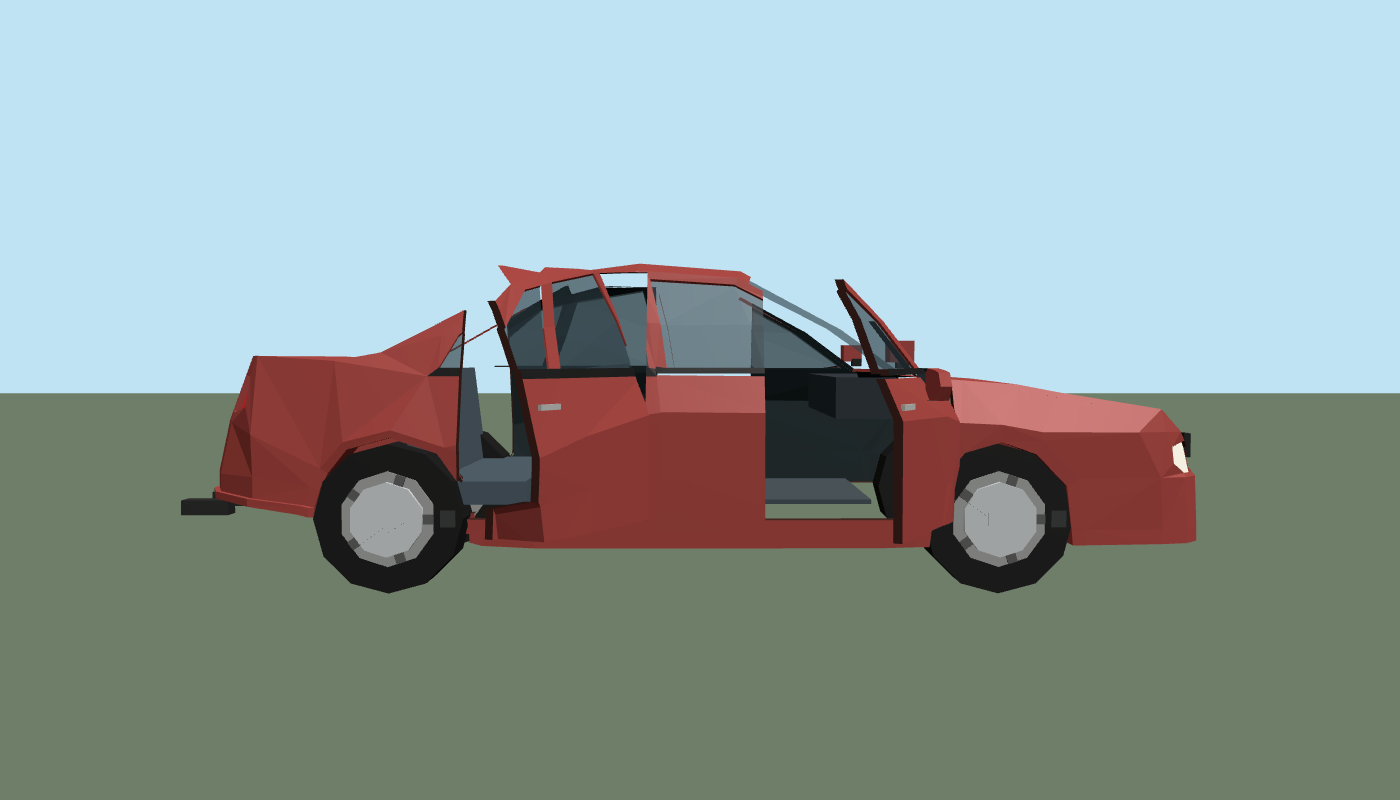
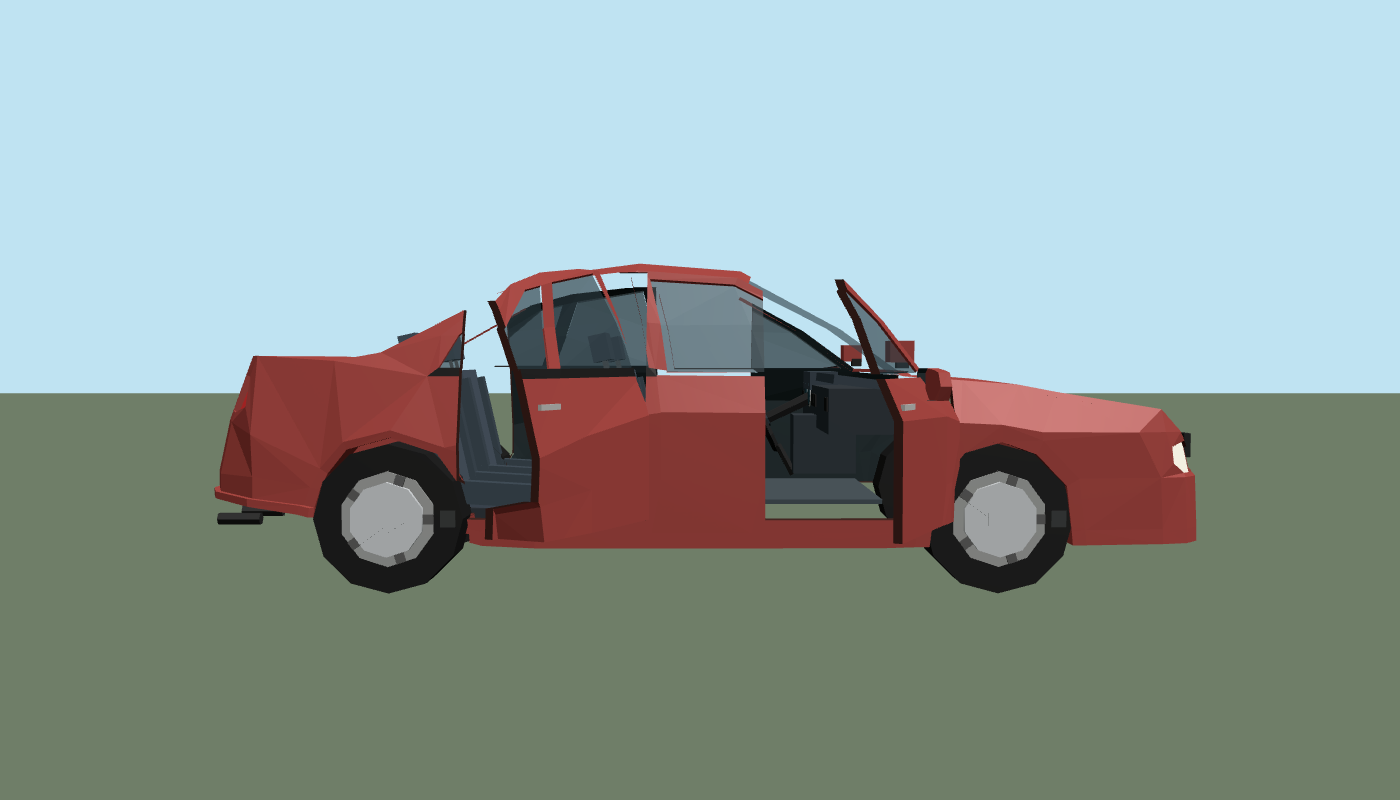
Losse eilanden weg langs de deuropening, uitlaat onder de bumper, autostoelen en dashboard uit het register
- hybride: kleine losse eilanden (onder 150 cm2) bij een deurcontour gaan eruit, in romp en deurblad
- knipDeurgaten: geen platte reepjes aan het deurblad (trekker-limo)
- deursnipper_test: controleert elk los eiland langs de opening, binnen en buiten de flank
- uitlaat van de hybride klein en half in de onderkant van de achterbumper; geen dubbele spiegel meer
- autostoel en dashboard met stuur als props in het centrale register, gebruikt door beide interieurs
- hybride norm 7.500 driehoeken (interieur alleen op LOD 0); contactblad -nabij, verslag, changelog

diff --git a/game/js/models3d_vehicles.js b/game/js/models3d_vehicles.js
@@ -13,6 +13,7 @@ import { hash2, hash3 } from './rng.js';
 import { zoneTotals, losseOnderdelen, fietsStaat } from './vehicledamage.js';
 import { staatSleutel } from './studentenfiets.js';
 import { naadStroken } from './vehicledoorcuts.js';
+import { propGeometry } from './propmodels3d.js';
 import { DEUR_DEFS as DEUR_DEFS_REF } from './vehicledoors.js';
 import { QCARS } from './models/qcars.js';
 import { hybrideSchaal } from './propregister.js';
@@ -672,6 +673,25 @@ function assembleCar(type, L, W, paint, { police = false, ambulance = false, wre
   return group;
 }
 
+// Het eenvoudige interieur achter een echte deuropening, uit het register (propregister.js: autostoel en dashboard): een vloer, twee
+// voorstoelen, twee achterstoelen en het dashboard met stuur aan de kant van de bestuurder (-z), op de maten van de romp.
+function addPropGeo(B, geo, m) {
+  const p = geo.attributes.position, c = geo.attributes.color, v = new THREE.Vector3();
+  for (let i = 0; i + 2 < p.count; i += 3) {
+    const pts = [0, 1, 2].map((k) => { v.fromBufferAttribute(p, i + k).applyMatrix4(m); return [v.x, v.y, v.z]; });
+    B._push(0, pts[0], pts[1], pts[2], [c.getX(i), c.getY(i), c.getZ(i)], null);
+  }
+}
+function addInterieur(B, { xA, xD, belt, vloerY, vloerW, stoelY, sx, zs, dashW }) {
+  B.box((xA + xD) / 2, vloerY, 0, xA - xD - 0.2, 0.02, vloerW, 0x45474c);
+  const stoel = propGeometry('autostoel'), dash = propGeometry('dashboard');
+  for (const z of [-zs, zs]) {
+    addPropGeo(B, stoel, composeMatrix(sx, stoelY, z));
+    addPropGeo(B, stoel, composeMatrix(sx - 0.85, stoelY, z * 0.92));
+  }
+  addPropGeo(B, dash, composeMatrix(xA - 0.2, belt - 0.5, 0, 0, 0, 0, 1, 1, Math.min(1, dashW / 1.42)));
+}
+
 // De echte deuropeningen (eis eigenaar 23-11): de dichte deuren als één statische mesh in het gat (buitenkant in lak, binnenkant
 // bekleding) zolang er geen deur-rig is, en een eenvoudig interieur (vloer, stoelen, dashboard) dat je door de open deur ziet zolang
 // de echte cabine (cabin3d.js) er niet is. Beide gedeelde geometrie per model.
@@ -708,18 +728,9 @@ function addRealDoors(group, body, gaten, doorName, L, W, paint, P, type) {
   group.userData.echtGat = ids;
   group.userData.gatRects = Object.fromEntries(gaten.flatMap((g) => g.ids.map((id) => [id, g.rect])));
   if (P) {
-    const ig = cached(`interieurSimpel|${type}|${L}|${W}`, () => {
+    const ig = cached(`interieurSimpel2|${type}|${L}|${W}`, () => {
       const B = new GeoBuilder(1);
-      const SEAT = 0x4d515c, DONKER = 0x2b2d32;
-      B.box((P.xA + P.xD) / 2, 0.335, 0, P.xA - P.xD, 0.02, W - 0.2, 0x45474c);                           // vloer
-      const sx = -hl * 0.06;
-      for (const z of [-1, 1]) {
-        B.box(sx, 0.39, z * hw * 0.34, 0.48, 0.1, 0.46, SEAT);                                            // zitting voor
-        B.box(sx - 0.27, 0.68, z * hw * 0.34, 0.1, 0.56, 0.46, SEAT, 0, 0, 0, 0.12);                      // leuning voor
-      }
-      B.box(sx - 0.85, 0.39, 0, 0.46, 0.1, W - 0.36, SEAT);                                               // achterbank
-      B.box(sx - 1.1, 0.68, 0, 0.1, 0.52, W - 0.36, SEAT, 0, 0, 0, 0.12);
-      B.box(P.xA - 0.2, P.belt - 0.06, 0, 0.34, 0.24, W - 0.3, DONKER);                                   // dashboard
+      addInterieur(B, { xA: P.xA, xD: P.xD, belt: P.belt, vloerY: 0.335, vloerW: W - 0.2, stoelY: 0.2, sx: -hl * 0.06, zs: hw * 0.36, dashW: W - 0.3 });
       return B.build();
     });
     const im = new THREE.Mesh(ig, cabinFallbackMaterial());
@@ -805,6 +816,9 @@ function looseCarParts(type, L, W, paint, P, mats, group) {
   };
   make('grille', (B) => B.box(hl + 0.005, P.nose - 0.12, 0, 0.03, 0.11, W * 0.42, TRIM));
   make('spiegels', (B) => {
+    // een hybride romp heeft zijn eigen spiegels (aan de voordeur, ze gaan met de deur mee): geen tweede blok ernaast, alleen een
+    // onzichtbaar stipje binnen de flank zodat de schade (fx3d.js) een plek heeft om de scherven van te laten vallen
+    if (P.uitlaat) { for (const s of [1, -1]) B.box(P.xA - 0.08, P.belt, s * (hw - 0.12), 0.01, 0.01, 0.01, TRIM); return; }
     const mx = P.van ? P.xA - 0.12 : P.xA - 0.08;
     for (const s of [1, -1]) {
       B.box(mx, P.belt + 0.1, s * (hw + 0.08), 0.1, 0.09, 0.14, paint);
@@ -812,6 +826,12 @@ function looseCarParts(type, L, W, paint, P, mats, group) {
     }
   });
   make('uitlaat', (B) => {
+    // een hybride romp heeft een ronde kont: de uitlaat zit eronder, vast aan de onderkant, en steekt maar een paar cm uit
+    if (P.uitlaat) {
+      const u = P.uitlaat; // half in de onderkant van de bumper, de punt 2 cm voorbij de achterkant
+      for (const s of [0.5, -0.5]) B.geo(new THREE.CylinderGeometry(0.024, 0.024, 0.14, 8).rotateZ(Math.PI / 2), composeMatrix(u.x - 0.02 + 0.07, u.y + 0.008, s * hw * 0.42), 0x2a2a2c);
+      return;
+    }
     for (const s of P.van ? [0.45] : [0.5, -0.5]) B.box(-hl - 0.08, 0.3, s * hw * 0.5, 0.22, 0.07, 0.09, 0x2a2a2c);
   });
   return parts;
@@ -1022,7 +1042,8 @@ function hybridBody(key, L, W, paint, doorName, police) {
       }
       return uit;
     };
-    const fan = (poly, r) => { const o = []; for (let i = 1; i + 1 < poly.length; i++) o.push({ v: [poly[0], poly[i], poly[i + 1]], r }); return o; };
+    const platOpp = (a, b, c) => { const u = [b[0] - a[0], b[1] - a[1], b[2] - a[2]], w = [c[0] - a[0], c[1] - a[1], c[2] - a[2]]; return Math.hypot(u[1] * w[2] - u[2] * w[1], u[2] * w[0] - u[0] * w[2], u[0] * w[1] - u[1] * w[0]); };
+    const fan = (poly, r) => { const o = []; for (let i = 1; i + 1 < poly.length; i++) if (platOpp(poly[0], poly[i], poly[i + 1]) > 1e-8) o.push({ v: [poly[0], poly[i], poly[i + 1]], r }); return o; };
     const kleiner = (x, c) => x <= c, groter = (x, c) => x >= c;
     // de flank wordt langs de deurcontour geknipt (Sutherland-Hodgman in x en y, z volgt lineair): alleen de vlakken die opzij kijken
     // (de deur en zijn ruit, ook de ronde dorpel en schouder, niet het dak of de voorruit). Het deurblad krijgt de contour 4 mm naar binnen (de kier), de romp houdt
@@ -1069,6 +1090,27 @@ function hybridBody(key, L, W, paint, doorName, police) {
         randVan(poly, r, true, RAND_GAT, d.side, 'romp');
       }
     }
+    // losse eilandjes langs de opening (een stukje raamlijst, een dunne lat van hun binnenrand) zweven anders als scherf in de open
+    // opening of hangen als lat aan het deurblad: kleine eilanden (onder 150 cm2) binnen 10 cm van een deurcontour gaan eruit
+    const KLEIN_EILAND = 0.015;
+    const eilanden = (lijst) => {
+      const key = (p) => `${Math.round(p[0] * 1000)},${Math.round(p[1] * 1000)},${Math.round(p[2] * 1000)}`;
+      const ouder = lijst.map((_, i) => i), vind = (a) => (ouder[a] === a ? a : (ouder[a] = vind(ouder[a])));
+      const eerste = new Map();
+      lijst.forEach((t, i) => { for (const p of t.v) { const k = key(p); if (eerste.has(k)) ouder[vind(i)] = vind(eerste.get(k)); else eerste.set(k, i); } });
+      const groep = new Map();
+      lijst.forEach((t, i) => { const r = vind(i); if (!groep.has(r)) groep.set(r, []); groep.get(r).push(t); });
+      return [...groep.values()];
+    };
+    const opp = (t) => { const [a, b, c] = t.v, u = [b[0] - a[0], b[1] - a[1], b[2] - a[2]], w = [c[0] - a[0], c[1] - a[1], c[2] - a[2]]; return Math.hypot(u[1] * w[2] - u[2] * w[1], u[2] * w[0] - u[0] * w[2], u[0] * w[1] - u[1] * w[0]) / 2; };
+    const bijContour = (lijst) => Object.values(rects).some((r) => lijst.some((t) => t.v.some((p) => p[0] > r[0] - 0.1 && p[0] < r[2] + 0.1 && p[1] > r[1] - 0.1 && p[1] < r[3] + 0.1)));
+    const opgeruimd = (lijst, alleenBijContour) => eilanden(lijst).filter((e) => e.reduce((a, t) => a + opp(t), 0) >= KLEIN_EILAND || (alleenBijContour && !bijContour(e))).flat();
+    for (const id of Object.keys(vlak)) vlak[id] = opgeruimd(vlak[id], false);
+    rest.splice(0, rest.length, ...opgeruimd(rest, true));
+    // de randen horen bij wat er overblijft: een rand van een opgeruimd eilandje gaat mee weg
+    const over = new Set([...rest, ...Object.values(vlak).flat()].flatMap((t) => t.v.map((p) => `${Math.round(p[0] * 1000)},${Math.round(p[1] * 1000)},${Math.round(p[2] * 1000)}`)));
+    const randOver = (rd) => [rd[0], rd[1]].every((p) => over.has(`${Math.round(p[0] * 1000)},${Math.round(p[1] * 1000)},${Math.round(p[2] * 1000)}`));
+    randen.splice(0, randen.length, ...randen.filter(randOver));
     const f0 = vcount();
     for (const t of rest) if (isVoor(t)) B.tri(t.v[0], t.v[1], t.v[2], kleur[t.r], groep[t.r]);
     const f1 = vcount();
@@ -1175,19 +1217,11 @@ function buildHybridCar(v, key, paint) {
   // de breedte van elk interieurdeel volgt de flank op die plek (de romp loopt in naar voren, achteren en boven): niets steekt erdoor
   const flankTris = hybridTris(key, L, W).filter((t) => t.r === 0).map((t) => t.v);
   const binnen = (x, y, marge = 0.1) => { const z = hybridSurface(flankTris, x, y, 1); return Math.max(0.3, 2 * ((z === null ? W / 2 : z) - marge)); };
-  const ig = cached(`hybInterieur2|${key}|${L}|${W}`, () => {
+  const ig = cached(`hybInterieur3|${key}|${L}|${W}`, () => {
     const B = new GeoBuilder(1);
-    const SEAT = 0x4d515c, sx = -L / 2 * 0.06;
-    const vx = (fit.xA + fit.xD) / 2;
-    B.box(vx, 0.36, 0, fit.xA - fit.xD - 0.3, 0.02, Math.min(binnen(fit.xA - 0.3, 0.45), binnen(fit.xD + 0.3, 0.45)), 0x45474c);
-    const zs = binnen(sx, 0.5) / 2 * 0.62;
-    for (const z of [-1, 1]) {
-      B.box(sx, 0.42, z * zs, 0.48, 0.1, 0.44, SEAT);
-      B.box(sx - 0.27, 0.7, z * zs, 0.1, 0.54, 0.44, SEAT, 0, 0, 0, 0.12);
-    }
-    B.box(sx - 0.85, 0.42, 0, 0.46, 0.1, binnen(sx - 0.85, 0.5, 0.12), SEAT);
-    B.box(sx - 1.1, 0.7, 0, 0.1, 0.5, binnen(sx - 1.1, 0.8, 0.12), SEAT, 0, 0, 0, 0.12);
-    B.box(fit.xA - 0.2, fit.belt - 0.1, 0, 0.26, 0.18, binnen(fit.xA - 0.2, fit.belt - 0.1, 0.12), 0x2b2d32);
+    const sx = -L / 2 * 0.06;
+    addInterieur(B, { xA: fit.xA, xD: fit.xD, belt: fit.belt, vloerY: 0.36, vloerW: Math.min(binnen(fit.xA - 0.3, 0.45), binnen(fit.xD + 0.3, 0.45)),
+      stoelY: 0.24, sx, zs: Math.min(binnen(sx, 0.6) / 2 - 0.26, 0.42), dashW: binnen(fit.xA - 0.2, fit.belt - 0.1, 0.12) });
     return B.build();
   });
   const im = new THREE.Mesh(ig, cabinFallbackMaterial());
@@ -1197,7 +1231,11 @@ function buildHybridCar(v, key, paint) {
   // losse delen bij schade: grille, spiegels, uitlaat (zoals onze bouwer), op de maten van deze romp
   const lakTris = hybridTris(key, L, W).filter((t) => t.r === 0).map((t) => t.v);
   const zSp = hybridSurface(lakTris, fit.xA - 0.08, fit.belt - 0.02, 1);
-  const P = { ...fit, van: false };
+  // de uitlaat hangt onder de achterbumper: de onderkant van hun kont (laagste punt in de laatste 35 cm) en hoe ver die naar achteren reikt
+  const kont = hybridTris(key, L, W).flatMap((t) => t.v).filter((p) => p[0] < -L / 2 + 0.35 && Math.abs(p[2]) < 0.6);
+  const kontY = kont.length ? Math.min(...kont.map((p) => p[1])) : 0.3;
+  const kontX = kont.length ? Math.min(...kont.filter((p) => p[1] < kontY + 0.06).map((p) => p[0])) : -L / 2;
+  const P = { ...fit, van: false, uitlaat: { x: kontX, y: kontY } };
   group.userData.loose = looseCarParts('hyb-' + key, L, zSp ? zSp * 2 : W, color, P, mats, group);
   // wielen: onze wielgeometrie op hun plekken
   const { sx, sy, sz } = hybridScale(auto, L, W, key);
@@ -1257,7 +1295,9 @@ function knipDeurgaten(B, doorName, L, W) {
     }
     return uit;
   };
-  const fan = (poly) => { const o = []; for (let i = 1; i + 1 < poly.length; i++) o.push([poly[0], poly[i], poly[i + 1]]); return o; };
+  // een waaier uit een geknipte veelhoek, zonder platte driehoeken (drie punten op een lijn langs de snede)
+  const vlakOpp = (a, b, c) => { const u = [b[0] - a[0], b[1] - a[1], b[2] - a[2]], w = [c[0] - a[0], c[1] - a[1], c[2] - a[2]]; return Math.hypot(u[1] * w[2] - u[2] * w[1], u[2] * w[0] - u[0] * w[2], u[0] * w[1] - u[1] * w[0]); };
+  const fan = (poly) => { const o = []; for (let i = 1; i + 1 < poly.length; i++) if (vlakOpp(poly[0], poly[i], poly[i + 1]) > 1e-8) o.push([poly[0], poly[i], poly[i + 1]]); return o; };
   const kl = (x, c) => x <= c, gr = (x, c) => x >= c;
   for (const gi of [G_BODY, G_GLASS]) {
     const G = B.groups[gi], p = G.p.slice(), c = G.c.slice();
@@ -1278,7 +1318,7 @@ function knipDeurgaten(B, doorName, L, W) {
       const [x0, y0, x1, y1] = rects[d.id];
       const inn = knip(knip(knip(knip(v, 0, x0, gr), 0, x1, kl), 1, y0, gr), 1, y1, kl);
       if (inn.length < 3) { houd(v); continue; }
-      for (const t of fan(inn)) shells[d.id].push({ v: t, rgb, gi });
+      for (const t of fan(inn)) if (vlakOpp(t[0], t[1], t[2]) > 2e-6) shells[d.id].push({ v: t, rgb, gi }); // geen platte reepjes (onder 1 mm2) aan het deurblad
       if (v.every((q) => q[0] >= x0 && q[0] <= x1 && q[1] >= y0 && q[1] <= y1)) continue;
       for (const t of [...fan(knip(v, 0, x0, kl)), ...fan(knip(v, 0, x1, gr))]) houd(t);
       const mid = knip(knip(v, 0, x0, gr), 0, x1, kl);

diff --git a/game/js/propmodels3d.js b/game/js/propmodels3d.js
@@ -122,7 +122,47 @@ function paaltje() {
   return B.build();
 }
 
-const MAKERS = { bank, afvalbak, fietsenrek: () => fietsenrek(4), bushokje, paaltje };
+// Een autostoel (kijkt naar +x, oorsprong op de vloer): rails, zitting met zijwangen die iets naar achteren zakt, een schuine
+// rugleuning met zijwangen, een hoofdsteun op twee stangetjes. Voor het interieur achter een open deur (models3d_vehicles.js).
+function autostoel() {
+  const B = new GeoBuilder(1);
+  const STOF = 0x4a4f5a, WANG = 0x3c414b, NAAD = 0x2a2d33, STAAL = 0x6b6e70;
+  for (const z of [-0.16, 0.16]) B.box(0.02, 0.02, z, 0.46, 0.03, 0.04, STAAL);                       // rails
+  B.box(0.02, 0.07, 0, 0.42, 0.06, 0.38, NAAD);                                                         // onderstel
+  B.box(0.04, 0.14, 0, 0.44, 0.08, 0.36, STOF, 0, 0, 0, -0.06);                                         // zitting, achter iets lager
+  for (const z of [-0.205, 0.205]) B.box(0.04, 0.17, z, 0.46, 0.1, 0.07, WANG, 0, 0, 0, -0.06);       // zijwangen van de zitting (iets langer: geen gedeeld voorvlak)
+  B.box(0.04, 0.185, 0, 0.36, 0.008, 0.012, NAAD);                                                      // naad in de zitting
+  B.box(-0.2, 0.44, 0, 0.09, 0.52, 0.38, STOF, 0, 0, 0, 0.22);                                          // rugleuning, schuin naar achteren
+  for (const z of [-0.205, 0.205]) B.box(-0.18, 0.42, z, 0.12, 0.48, 0.07, WANG, 0, 0, 0, 0.22);      // zijwangen van de rug
+  for (const z of [-0.07, 0.07]) B.box(-0.29, 0.73, z, 0.015, 0.09, 0.015, STAAL, 0, 0, 0, 0.22);     // stangen van de hoofdsteun
+  B.box(-0.31, 0.81, 0, 0.08, 0.12, 0.26, STOF, 0, 0, 0, 0.22);                                         // hoofdsteun
+  return B.build();
+}
+// Het dashboard (de voorkant naar +x, de bestuurder links, -z): een lange bovenkant met een kap boven de meters, het metercluster,
+// ventilatieroosters, een middenconsole met radio en pook, en het stuur op een kolom. Breedte 1,4 m; schaal in z naar de romp.
+function dashboard() {
+  const B = new GeoBuilder(1);
+  const DASH = 0x2b2d32, ZACHT = 0x3a3d44, METER = 0x1a3a44, ROOSTER = 0x121315, STUUR = 0x1e1f22, RING = 0x9aa0a6;
+  B.box(0, 0, 0, 0.32, 0.2, 1.4, DASH);                                                                 // body
+  B.box(0.04, 0.12, 0, 0.36, 0.04, 1.42, ZACHT, 0, 0, 0, -0.12);                                        // bovenkant, aflopend naar de ruit
+  B.box(-0.1, 0.12, -0.34, 0.14, 0.09, 0.4, ZACHT);                                                     // kap boven de meters
+  for (const z of [-0.43, -0.25]) {
+    B.geo(new THREE.CylinderGeometry(0.065, 0.065, 0.008, 12).rotateZ(Math.PI / 2), composeMatrix(-0.161, 0.05, z), RING);
+    B.geo(new THREE.CylinderGeometry(0.055, 0.055, 0.01, 12).rotateZ(Math.PI / 2), composeMatrix(-0.164, 0.05, z), METER);
+  }
+  for (const z of [-0.62, -0.05, 0.05, 0.62]) B.box(-0.162, 0.03, z, 0.01, 0.06, 0.12, ROOSTER);       // roosters
+  B.box(-0.12, -0.18, 0, 0.3, 0.28, 0.22, DASH);                                                        // middenconsole
+  B.box(-0.165, -0.08, 0, 0.012, 0.07, 0.16, METER);                                                    // radio
+  B.geo(new THREE.CylinderGeometry(0.018, 0.022, 0.16, 6), composeMatrix(-0.3, -0.26, 0, 0, 0, 0.5), STUUR); // pook
+  // stuur op een kolom, schuin naar de bestuurder
+  B.geo(new THREE.CylinderGeometry(0.03, 0.035, 0.32, 6).rotateZ(Math.PI / 2 + 0.45), composeMatrix(-0.26, -0.02, -0.34), STUUR);
+  B.geo(new THREE.TorusGeometry(0.17, 0.018, 5, 14).rotateY(Math.PI / 2).rotateZ(0.45), composeMatrix(-0.4, -0.08, -0.34), STUUR);
+  B.box(-0.4, -0.08, -0.34, 0.03, 0.05, 0.3, STUUR, 0, 0, 0, 0.45);                                     // spaak
+  B.geo(new THREE.CylinderGeometry(0.045, 0.045, 0.04, 8).rotateZ(Math.PI / 2 + 0.45), composeMatrix(-0.39, -0.08, -0.34), ZACHT); // naaf
+  return B.build().translate(0, 0.34, 0); // oorsprong onder de middenconsole (de bovenkant zit dan op 0,46 m)
+}
+
+const MAKERS = { bank, afvalbak, fietsenrek: () => fietsenrek(4), bushokje, paaltje, autostoel, dashboard };
 const cache = new Map();
 
 // De gedeelde geometrie van een geregistreerde prop (een kopie per aanroep is niet nodig: de geometrie is gemarkeerd als gedeeld).

diff --git a/game/js/propregister.js b/game/js/propregister.js
@@ -29,6 +29,14 @@ export const PROP_REGISTER = {
     nl: 'Bushokje', bouwer: 'bushokje', gebruik: ['buiten', 'cutscene'],
     norm: { tris: [380, 900], kleuren: 9, maat: [4.14, 2.76, 1.76], eisen: ['dak met rand en goot', 'glazen wanden in lijsten met een lichter weerspiegelvlak', 'zitbank', 'lichtbak met lijnkaart', 'haltepaal met rond bord en dienstregelingkastje'] },
   },
+  autostoel: {
+    nl: 'Autostoel', bouwer: 'autostoel', gebruik: ['voertuig'],
+    norm: { tris: [150, 400], kleuren: 4, maat: [0.62, 0.9, 0.48], eisen: ['zitting met zijwangen die naar achteren zakt', 'schuine rugleuning met zijwangen', 'hoofdsteun op twee stangen', 'rails en onderstel'] },
+  },
+  dashboard: {
+    nl: 'Dashboard met stuur', bouwer: 'dashboard', gebruik: ['voertuig'],
+    norm: { tris: [250, 700], kleuren: 5, maat: [0.75, 0.48, 1.42], eisen: ['aflopende bovenkant en kap boven de meters', 'twee ronde meters en ventilatieroosters', 'middenconsole met radio en pook', 'stuur met spaak en naaf op een schuine kolom'] },
+  },
   paaltje: {
     nl: 'Paaltje', bouwer: 'paaltje', gebruik: ['buiten', 'cutscene'],
     norm: { tris: [100, 260], kleuren: 4, maat: [0.23, 0.92, 0.23], eisen: ['rode romp met twee witte reflectiebanden', 'bolle kop', 'voetkraag'] },
@@ -49,7 +57,8 @@ export const CUTSCENE_PROPS = PROP_IDS.filter((id) => PROP_REGISTER[id].gebruik.
 // De LOD-opgave van alle voertuigmodellen komt uit het centrale LOD-register (lodregistry.js, soort 'vehicle'): één systeem.
 export const VOERTUIG_LOD = LOD_KINDS.vehicle.lod;
 export const VOERTUIG_NORM = { len: [4.2, 4.8], wid: [1.75, 1.85], hoog: [1.4, 1.5], hoogSuv: [1.65, 1.75], wielbasis: [2.6, 2.8], wielDiameter: [0.58, 0.75], deurHoogte: 0.95, persoon: 1.78 };
-const HYB_NORM = { tris: [1800, 6500], kleuren: 6, eisen: ['carrosserie uit het CC0-pakket, in lakkleur van het voertuig', 'echt gat in de flank met de uitgeknipte romp als deur (dikte, binnenkant), deurstijlen en dorpel', 'eenvoudig interieur achter de opening', 'onze wielen die draaien en sturen', 'koplampen en achterlichten in de lampgroep, schade met losse delen en hangende bumpers'] };
+// 23-11: 7.500 met het interieur uit het register (vier autostoelen en het dashboard, ca. 1.500 driehoeken; alleen op LOD-niveau 0)
+const HYB_NORM = { tris: [1800, 7500], kleuren: 6, eisen: ['carrosserie uit het CC0-pakket, in lakkleur van het voertuig', 'echt gat in de flank met de uitgeknipte romp als deur (dikte, binnenkant), deurstijlen en dorpel', 'eenvoudig interieur achter de opening', 'onze wielen die draaien en sturen', 'koplampen en achterlichten in de lampgroep, schade met losse delen en hangende bumpers'] };
 // de getekende maat van een hybride (null als het geen hybride is)
 export const hybrideSchaal = (key) => { for (const e of Object.values(VOERTUIG_REGISTER)) if (e.hybride === key) return e.schaal; return null; };
 

diff --git a/docs/beeld-23-11/objecten/sheet.html b/docs/beeld-23-11/objecten/sheet.html
@@ -85,7 +85,7 @@
       for (let k = 0; k < 40; k++) for (const rol of rollen) for (const side of (mode.includes('eenkant') ? [1] : [-1, 1])) syncVehicleDoors(m, v, 0.05, { rol, open: true, side });
     }
   });
-  const dist = set === 'gat3' ? 6 : set === 'gat' ? 7.5 : set === 'gat2' ? 15 : set === 'lod' ? 12 : set === 'vgl' || set === 'hyb' ? (mode.includes('ver') ? 20 : set === 'hyb' ? 13 : 11) : set === 'limo' || set === 'deur1' || set === 'auto1' ? 9 : set === 'deur' ? 17 : set === 'limo' ? 16 : set === 'boot' ? 36 : set === 'bus' ? 24 : set === 'bak' ? 24 : set === 'fiets' ? 12 : set === 'heli' ? 18 : 20;
+  const dist = (mode.includes('nabij') ? 0.5 : 1) * (set === 'gat3' ? 6 : set === 'gat' ? 7.5 : set === 'gat2' ? 15 : set === 'lod' ? 12 : set === 'vgl' || set === 'hyb' ? (mode.includes('ver') ? 20 : set === 'hyb' ? 13 : 11) : set === 'limo' || set === 'deur1' || set === 'auto1' ? 9 : set === 'deur' ? 17 : set === 'limo' ? 16 : set === 'boot' ? 36 : set === 'bus' ? 24 : set === 'bak' ? 24 : set === 'fiets' ? 12 : set === 'heli' ? 18 : 20);
   const cam = new THREE.PerspectiveCamera(36, W / H, 0.1, 400);
   if (mode.includes('boven')) cam.position.set(0, dist * 1.1, dist * 0.55);
   else if (mode.includes('opzij')) cam.position.set(0, 1.0, dist);

diff --git a/docs/beeld-23-11/objecten/vergelijking-hybride.html b/docs/beeld-23-11/objecten/vergelijking-hybride.html
@@ -22,6 +22,10 @@ buiten git geladen uit C:\Users\abuis\gde-assets\quaternius\cars\pack en is alle
 <img src="g-gat3-open-eenkant.png" alt="hybride open, schuin">
 <img src="g-gat3-opzij-open-eenkant.png" alt="hybride open, recht van opzij">
 <img src="g-gat3-boven-open-eenkant.png" alt="hybride open, van boven">
+<img src="g-gat3-open-eenkant-nabij.png" alt="dichtbij: autostoelen en dashboard met stuur door de open deur">
+<img src="g-gat3-boven-open-eenkant-nabij.png" alt="dichtbij van boven: B-stijl en open portieren">
+<img src="g-gat3-achter-nabij.png" alt="dichtbij: voorkant met deurspiegel, geen dubbele spiegel">
+<img src="g-gat3-opzij-open-eenkant-nabij.png" alt="dichtbij recht van opzij, deuren open">
 <p class="klein">De deur is langs de contour uit de romp geknipt (driehoeken die de contour snijden worden gesplitst), met een kier van 4 mm; langs elke snede een
 rand met dikte (6 cm in de opening, 3,5 cm aan de deur). Alleen de opzij gekeerde flank wordt geknipt (boven de raamlijn alleen de zijruit en zijn lijst),
 dus geen stukken dak, voorruit of C-stijl aan de deur. Het platte zwarte vlak dat hun model binnenin op raamhoogte heeft, is weg. scripts/deursnipper_test.mjs

diff --git a/docs/AAA-OBJECTEN-23-11.md b/docs/AAA-OBJECTEN-23-11.md
@@ -210,6 +210,24 @@ Aangepaste tests (bewust): `vehicledoors3d_test` telt bij een echt gat alleen de
 verwacht 63 graden; `voertuigmodel_test`, `vehicledoorcuts_test` en `vehicle_interior_plate_test` keuren onze eigen bouwer
 (`hybride: false`); `vehicle_zfight_test` staat bij de hybrides snippers langs de knipranden toe (geen flush, samen onder 50 cm2).
 
+### Vijfde ronde: losse eilanden, uitlaat, stoelen en dashboard
+
+- Losse eilanden: `hybridBody` ruimt na het knippen elk aaneengesloten stuk onder 150 cm2 binnen 10 cm van een deurcontour op (romp en
+  deurblad), en `knipDeurgaten` (vrachtwagen, trekker, trekker-limo) laat geen platte reepjes onder 1 mm2 meer aan het deurblad.
+  `deursnipper_test` controleert nu elk los eiland langs de opening: in de romp binnen de flank (de buitenste 40 % van de halve
+  breedte, dieper is interieur), en aan het deurblad ook als het buiten de flank uitsteekt; alleen het handvat mag los zitten.
+- Dorpel: elk deurblad blijft binnen zijn contour (gemeten: bbox van elk deurblad valt binnen de deurrechthoek, sedan, hatch, SUV,
+  trekker-limo); de strip die onder een open voordeur zichtbaar blijft is de dorpel van de romp zelf.
+- Uitlaat (hybride): twee pijpjes van 4,8 cm doorsnee en 14 cm lang, half in de onderkant van de achterbumper (gemeten per romp:
+  laagste punt in de laatste 35 cm), de punt 2 cm voorbij de achterkant. De dubbele spiegel (ons blok naast hun deurspiegel) is weg.
+- Interieur uit het register: `autostoel` (rails, zitting met zijwangen die naar achteren zakt, schuine rugleuning, hoofdsteun op
+  stangen; norm 150 tot 400 driehoeken) en `dashboard` (aflopende bovenkant, kap, twee meters, roosters, middenconsole met radio en
+  pook, stuur met spaak en naaf op een schuine kolom; norm 250 tot 700). Gebruikt door het procedurele en het hybride interieur.
+  De hybride norm gaat daardoor naar 7.500 driehoeken op niveau 0 (ca. 1.500 voor het interieur, dat op LOD 1 en 2 verborgen is).
+- Gezien op het contactblad (`gat3`, ook nieuw `-nabij`): stoelen, dashboard, uitlaat, geen dubbele spiegel. Niet zeker: een dunne
+  donkere lijn langs de dorpel in de bovenaanzicht (vermoedelijk de 6 cm rand van de opening, op de kant gezien) en de bovenkant
+  van het open achterportier (raamlijst van hun romp die meegaat met de deur).
+
 ## Niet in beeld gezien
 
 - Vierde ronde: niets in het spel bekeken; geen fps gemeten (alleen driehoeken). De echte cabine van `cabin3d.js` in de hybride (die volgt

diff --git a/CHANGELOG.md b/CHANGELOG.md
@@ -14,6 +14,7 @@ elke versie is één `## [x.y.z]`-blok met Nederlandse regels.
 - Helikopter: afgeronde motorkap, interieur met stoelen en dashboard, schuifdeur met naad en raampje, bladen met gele tippen.
 - Auto's: de gewone personenauto's, de politieauto en de taxi hebben een nieuwe, rondere carrosserie (uit een vrij te gebruiken modelpakket) met alles wat het spel al had: deuren, interieur, sturende wielen, lichten, schade en kleuren. Ze zijn op echte maten gebracht (hoogte 1,42 tot 1,50 m, SUV 1,70) en botsen nu precies zo groot als ze eruitzien.
 - Deuren: de carrosserie heeft een echte opening waar de deur zit. Open kijk je de auto in (stoelen, vloer, dashboard), dicht vult de deur het gat. Ook bij de vrachtwagen, de trekker en de trekker-limo. Alle portieren scharnieren aan de voorkant.
+- Auto-interieur: achter een open deur staan echte autostoelen (zitting met zijwangen, schuine rugleuning, hoofdsteun) en een dashboard met meters, roosters, middenconsole en stuur. De uitlaat zit nu klein onder de achterbumper en de hybride auto's hebben geen dubbele spiegel meer.
 - Voertuigen worden op afstand eenvoudiger getekend (twee niveaus, met een zachte overgang), zodat drukke straten lichter zijn.
 - Straatmeubilair: parkbank met latten en gietijzer, afvalbak met deksel en klep, fietsenrek met beugels, bushokje met glas, bank en lijnkaart, paaltje met reflectiebanden. Ze komen uit één register (`propregister.js`) en staan in de stad, het buitengebied en de cutscenes.
 

diff --git a/docs/PROPS-STAND-22-11.md b/docs/PROPS-STAND-22-11.md
@@ -64,7 +64,7 @@ Telling: 102 scènes, 155 props, 49 soorten in gebruik, 27 aankledingsplannen, 5
 | fiets | voertuig (wereld) |  |  |  | 1.9 x 0.7 x 1.15 | 12 |
 | kat | dier (wereld) |  |  |  |  | 4 |
 | koe | dier (wereld) |  |  |  |  | 0 |
-| limo | voertuig (wereld) | 8920 |  |  | 5.84 x 2.667 x 2.24 | 6 |
+| limo | voertuig (wereld) | 8912 |  |  | 5.84 x 2.667 x 2.24 | 6 |
 | politie | voertuig (wereld) |  |  |  | 4.8 x 1.95 x 1.75 | 1 |
 | snackwagen | voertuig (wereld) | 3190 |  |  | 5.681 x 2.964 x 3.073 | 5 |
 | tankwagen | voertuig (wereld) | 1842 |  |  | 8.611 x 3.61 x 3 | 2 |
